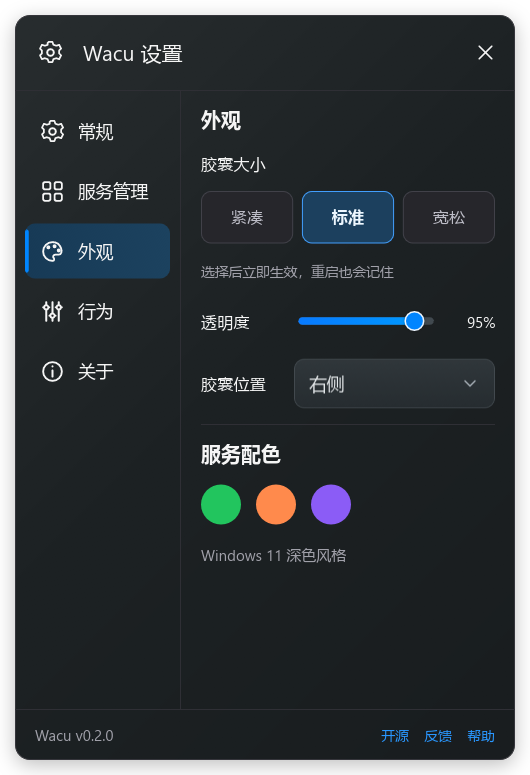
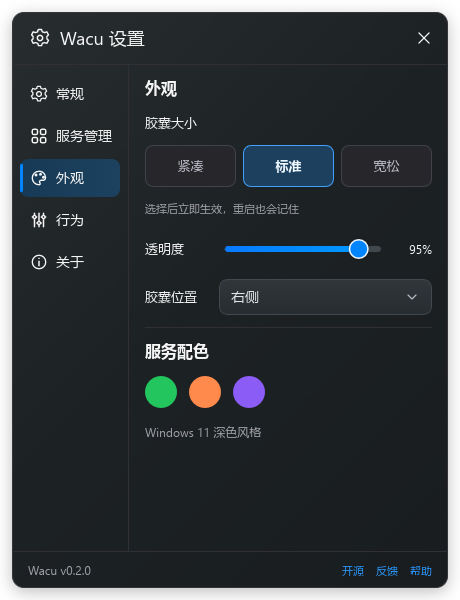
fix: compact detail and settings panels while preserving capsule size

diff --git a/src/main.rs b/src/main.rs
@@ -729,7 +729,16 @@ fn main() -> Result<(), Box<dyn Error>> {
     }
 
     // A visible native tray keeps Slint's event loop running while windows are hidden.
-    tray.show()?;
+    #[cfg(not(debug_assertions))]
+    let show_tray = true;
+    #[cfg(debug_assertions)]
+    let show_tray = !matches!(
+        qa_view.as_str(),
+        "capsule" | "quick" | "detail" | "settings"
+    );
+    if show_tray {
+        tray.show()?;
+    }
     if initial.mode == Mode::Pinned {
         show_capsule(&capsule, &initial, None);
     }
@@ -753,13 +762,13 @@ fn main() -> Result<(), Box<dyn Error>> {
             let s = settings.as_weak();
             Timer::single_shot(Duration::from_millis(300), move || {
                 if let Some(s) = s.upgrade() {
-                    qa_click(s.window(), 320.0, 462.0);
+                    qa_click(s.window(), 250.0, 330.0);
                 }
             });
             let s = settings.as_weak();
             Timer::single_shot(Duration::from_millis(400), move || {
                 if let Some(s) = s.upgrade() {
-                    qa_click(s.window(), 390.0, 520.0);
+                    qa_click(s.window(), 325.0, 374.0);
                 }
             });
             let s = settings.as_weak();

diff --git a/docs/UI_SPEC.md b/docs/UI_SPEC.md
@@ -17,11 +17,13 @@
 
 当前只有 Claude Code、Codex、WorkBuddy 三项服务，按原图橙／绿／紫顺序排列；开关仍使用稳定服务 ID，不因排序和过滤错配。没有为了凑满六项添加不存在的服务。
 
-本轮按用户确认保留三项服务，重点校准快览、详情、设置的纵横比例和内部留白。面板与卡片采用石墨色渐变；选中胶囊增加整圈蓝色边框、蓝色光晕，箭头对齐服务圆环中心；快览按钮恢复左图标与右箭头，官网按钮将外链图标放在文字旁。下拉框与透明度滑杆保留原生输入行为，重新绘制表面以匹配设计图。
+按用户确认保留三项服务，已校准快览、详情、设置的纵横比例和内部留白。面板与卡片采用石墨色渐变；选中胶囊增加整圈蓝色边框、蓝色光晕，箭头对齐服务圆环中心；快览按钮恢复左图标与右箭头，官网按钮将外链图标放在文字旁。下拉框与透明度滑杆保留原生输入行为，重新绘制表面以匹配设计图。
+
+本轮按“除了悬浮面板都小一点”的反馈保留胶囊三档尺寸，详情恢复 1.0 倍排版，设置使用独立尺寸与更紧凑的行距。
 
 ## 尺寸和配色
 
-以下均为逻辑像素。胶囊在主体外留出 12px，详情和设置留出 15px，容纳透明阴影；这部分不计入设计主体尺寸。详情、设置及共用控件由统一 1.25 倍 Token 放大，字体和坐标同步变化。
+以下均为逻辑像素。胶囊在主体外留出 12px，详情和设置留出 12px，容纳透明阴影；这部分不计入设计主体尺寸。详情与设置分别使用 1.0 倍 Token；共用图标和按钮由所属面板传入缩放，胶囊的设置触点按胶囊尺寸独立缩放。
 
 | 组件 | 尺寸 |
 | --- | --- |
@@ -29,13 +31,13 @@
 | 胶囊原生窗口 | 默认 88 × 306px；0／1／2／3 项对应 166／166／236／306px；紧凑三项 72 × 244px，宽松三项 104 × 356px |
 | 服务项 | 标准 56 × 70px；圆环 50px；中心角色 28px；数字 14px |
 | 底部设置触点 | 紧凑／标准／宽松为 32／40／48px |
-| 快览原生窗口 | 370 × 527.5px（快照取整为 528px）；深色主体 340 × 497.5px；标题栏 80px |
-| 完整详情原生窗口 | 370 × 765px；深色主体 340 × 735px；标题栏 70px |
-| 设置原生窗口 | 530 × 775px；主体 500 × 745px；左导航 165px；标题栏 75px |
-| 信息卡片／行 | 快览卡片 170px、行 45px；完整详情卡片 150px、行 40px；图标、标签、数值分别固定在 x=0／32.5／112.5 |
-| 开关 | 55 × 30px，白色滑块 25px；设置项高 75px |
-| 设置下拉框／滑杆 | 下拉框高 50px；滑杆轨道 7.5px、滑块 20px；下拉弹层和键盘选择使用原生 ComboBox |
-| 圆角 | 胶囊随宽度变化、面板 15px、控件 10px |
+| 快览原生窗口 | 296 × 422px；深色主体 272 × 398px；标题栏 64px |
+| 完整详情原生窗口 | 296 × 612px；深色主体 272 × 588px；标题栏 56px |
+| 设置原生窗口 | 460 × 600px；主体 436 × 576px；左导航 116px；标题栏 52px |
+| 信息卡片／行 | 快览卡片 136px、行 36px；完整详情卡片 120px、行 32px；图标、标签、数值分别固定在 x=0／26／90 |
+| 开关 | 40 × 22px，白色滑块 18px；设置项高 54px |
+| 设置下拉框／滑杆 | 下拉框高 36px；滑杆轨道 6px、滑块 20px；下拉弹层和键盘选择使用原生 ComboBox |
+| 圆角 | 胶囊随宽度变化、面板 12px、控件 8px |
 
 外观页的胶囊尺寸选择立即生效，并保存至用户配置。旧配置缺少 capsule_size 时采用标准档；调整后等待原生窗口重新布局，再约束到屏幕工作区并同步重定位已打开的详情。
 
@@ -54,7 +56,7 @@
 
 图标均为随程序内嵌的 SVG；圆环与角色由 Slint 原生绘制。没有引入图片生成、网页或 WebView 运行时。
 
-Slint 八位颜色采用 `#RRGGBBAA`。阴影使用 `#00000040`／`#00000050`，蓝色光晕使用 `#3B82F666`／`#3B82F633`，修复原先透明阴影及紫色光晕。面板阴影模糊 20px、向下偏移 5px，外缘保留透明空间。
+Slint 八位颜色采用 `#RRGGBBAA`。阴影使用 `#00000040`／`#00000050`，蓝色光晕使用 `#3B82F666`／`#3B82F633`，修复原先透明阴影及紫色光晕。面板阴影模糊 16px、向下偏移 4px，外缘保留透明空间。
 
 ## 功能边界
 
@@ -87,7 +89,7 @@ cargo build
 python scripts\ui-overview.py        # 生成总览，需要 Pillow
 ```
 
-每个预览进程采用默认测试配置，生成截图后退出，不保存胶囊位置、不修改用户设置或启动项。环境变量只设置在子进程上。Release 不提供这些调试入口。
+每个预览进程采用默认测试配置，生成截图后退出，不保存胶囊位置、不修改用户设置或启动项。环境变量只设置在子进程上。预览窗口不注册系统托盘图标；Release 不提供这些调试入口。
 
 控件输入检查只允许 `APPDATA=当前项目/target/qa-input-profile`，通过 Slint 原生事件分发点击滑杆与位置下拉框，再用向下键和回车选择左侧；断言透明度与位置已写入隔离配置，同时保留弹层快照。脚本比较真实用户配置的哈希，确保预览没有改动用户设置。该检查覆盖绘制层是否阻挡输入；不能代替完整 Windows 鼠标与辅助功能验收。
 

diff --git a/README.md b/README.md
@@ -8,7 +8,7 @@ Windows 轻量 AI 用量守望工具。**现已完全重写为 Rust + Slint + Wi
 
 - Windows 系统托盘左键打开/收起黑色纵向胶囊；右键可进入设置、切换模式或退出。
 - 胶囊按设计图排列 Claude Code、Codex、WorkBuddy，以彩色圆环、双眼角色和已用百分比显示演示用量；默认主体宽 64px、圆环 50px，外观页可选择紧凑／标准／宽松三档并记住偏好。
-- 详情与设置在原设计网格上整体放大 25%，正文约 15–17px，百分比 40px，按钮与图标同步放大；校准快览、详情、设置的纵横比例，使用石墨色渐变、圆角控件和柔和阴影。
+- 详情与设置采用紧凑排版：快览 296×422px、完整详情 296×612px、设置 460×600px；正文 13–14px、百分比 32px，使用石墨色渐变、圆角控件和柔和阴影。
 - 可在“点击弹出”与“常驻悬浮”之间切换；拖动位置和服务显示开关将保存在本地。胶囊高度随启用服务数量自动调整，关闭服务后其他项目仍能正确打开详情。
 - 进度环使用 Slint 原生路径绘制；提供悬停、选中蓝色光晕与指示箭头、按下缩小反馈，所有过渡为 100–200ms，可统一关闭。
 - 点击服务先弹出窄版用量快览，再展开带示意趋势图的完整详情。

diff --git a/docs/WINDOWS_QA.md b/docs/WINDOWS_QA.md
@@ -2,7 +2,17 @@
 
 日期：2026-10-10 · 工程版本：v0.2.0 · 目标：Windows x64。
 
-## 当前轮：校准设计图比例、材质与控件
+## 当前轮：收紧设置与详情，保留悬浮胶囊尺寸
+
+- [x] 快览从 370×528px 收紧为 296×422px，完整详情从 370×765px 收紧为 296×612px；文字、图表、卡片及按钮同步采用 1.0 倍排版。
+- [x] 设置从 530×775px 收紧为 460×600px，导航 116px，设置项 54px，开关 40×22px；五个分类保持完整。
+- [x] 胶囊三档主体、圆环、百分比与设置触点保持原有大小。
+- [x] 更新隔离配置输入检查坐标；视觉预览跳过系统托盘注册，正式运行保留托盘。
+- [x] 17 张外观快照、原生滑杆与下拉选择检查通过，用户配置哈希一致。
+- [x] Rust 格式、9 项测试、Release 构建及隔离配置启动检查通过。
+- [ ] 完整跨屏、不同 DPI 与真实鼠标人工验收。
+
+## 前轮：校准设计图比例、材质与控件
 
 - [x] 按用户确认保留 Claude Code、Codex、WorkBuddy 三项服务。
 - [x] 快览 370×528px、完整详情 370×765px、设置 530×775px；分别校准标题栏、卡片留白、导航宽度与按钮图标位置。
